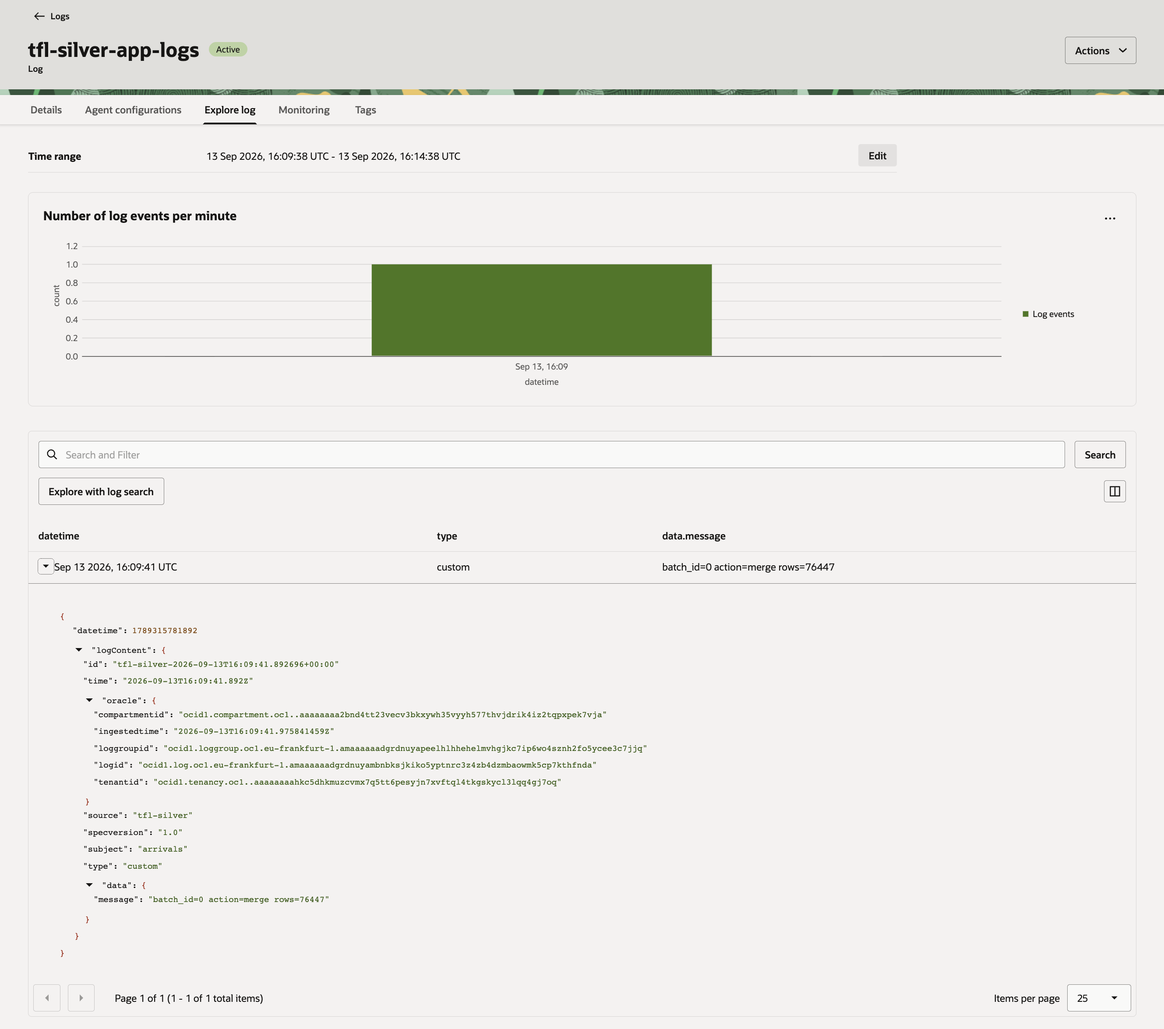
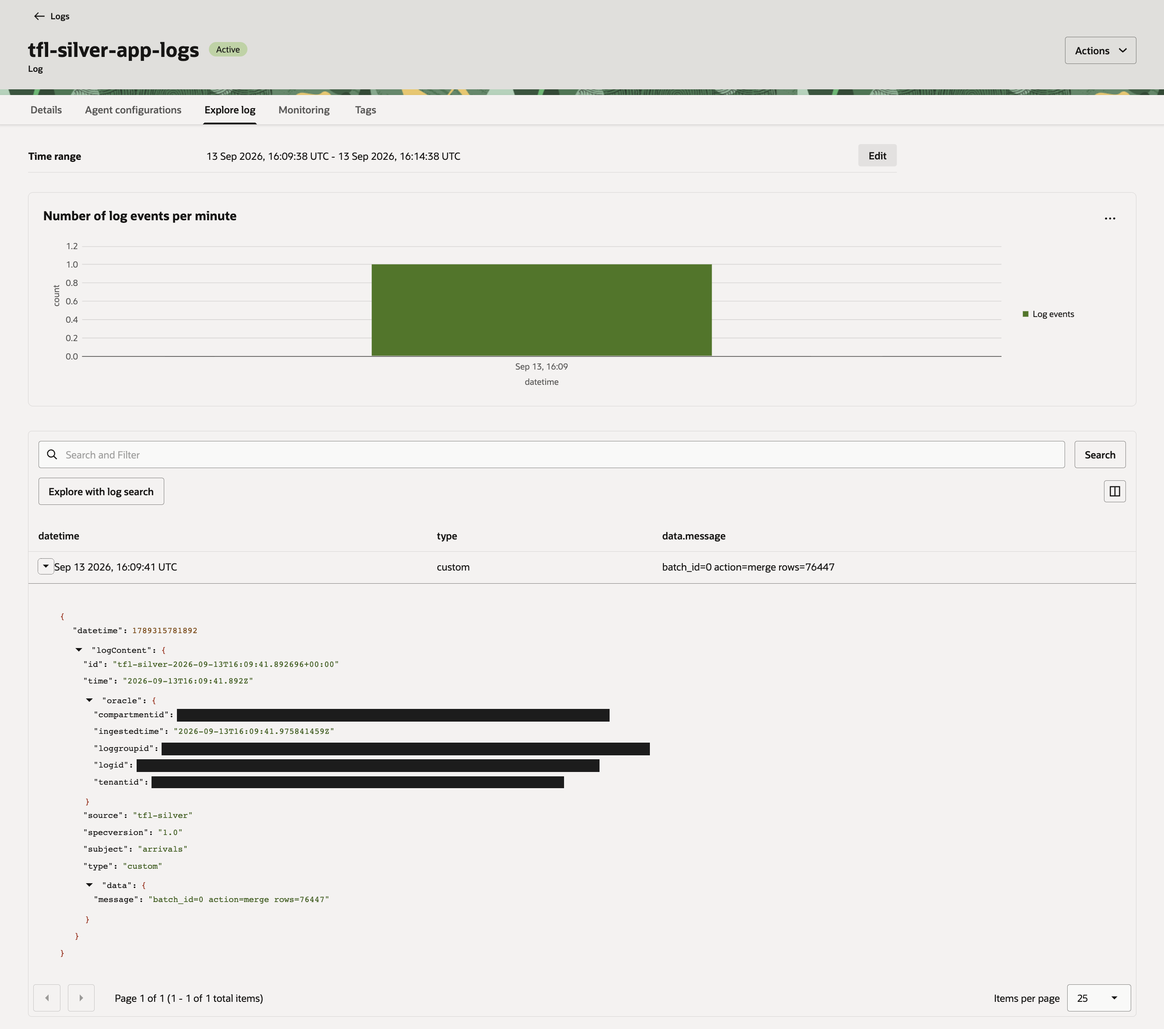
update

Changed region(s): [[0.1249, 0.6834, 0.5621, 0.7766]]

diff --git a/silver-layer-spark-structured-streaming/silver-layer-spark-structured-streaming.html b/silver-layer-spark-structured-streaming/silver-layer-spark-structured-streaming.html
@@ -11,26 +11,28 @@
   <p>In this post I'll walk through:</p>
 
   <ul>
-    <li><strong>Shaping the silver table</strong>: a 4-column business key, and two small judgment calls on which bronze fields carry forward.</li>
-    <li><strong>Cleaning and typing the bronze stream</strong>, then ranking each micro-batch down to one row per key.</li>
-    <li><strong>The <code>MERGE</code></strong>: why Delta needs <code>foreachBatch</code> for this, and how the upsert condition avoids clobbering fresher rows with stale ones.</li>
-    <li><strong>OCI Logging</strong>, added at the batch level, and the pragmatic call I made on how to authenticate it for a demo like this one.</li>
-    <li><strong>Running the pipeline against bronze's live backlog</strong>, and confirming the dedup actually held.</li>
+    <li><strong>Shaping the silver table</strong>: what makes one row unique, and which bronze fields I kept or left out, and why.</li>
+    <li><strong>Cleaning up the data</strong>: turning the many repeated updates TfL sends for the same bus into one clean row.</li>
+    <li><strong>Updating the table safely</strong>: why a normal streaming write can't update rows that are already there, the workaround I use, and how I stop old data from overwriting newer data.</li>
+    <li><strong>Watching it with logging</strong>: a simple way to see what the pipeline is doing while it runs, and how I got that working for a demo like this.</li>
+    <li><strong>Running it on real data</strong>: pointing the pipeline at everything bronze had already collected, and checking the cleanup actually worked.</li>
   </ul>
 
   <h2>Recap: what we have so far</h2>
 
   <p><code>tfl.bronze.arrivals_bronze</code> has been filling up since the last post: every message TfL's Unified API produces, landed as-is, one row per prediction, with a full-fidelity <code>raw_payload</code> column alongside the typed fields. Nothing in bronze is deduplicated or cleaned; the same vehicle approaching the same stop shows up over and over as TfL keeps refreshing its estimate.</p>
 
-  <p>That's exactly what a bronze layer is for. Silver is where it gets turned into something more usable: one row per <code>(vehicleId, naptanId, lineId, direction)</code>, always reflecting the latest prediction, kept current by an upsert rather than a plain append.</p>
+  <p>Think of bronze like a messy inbox: every update TfL sends gets saved, even the tenth reminder about the same bus approaching the same stop. That's fine for bronze, it's meant to be a complete, honest copy of everything that happened, nothing thrown away.</p>
+
+  <p>Silver is where I clean that inbox up. One row per <code>(vehicleId, naptanId, lineId, direction)</code>, in plain terms, one row per "this bus, at this stop, on this line, going this direction", always showing the latest prediction, kept current by updating existing rows instead of just piling on more of them.</p>
 
   <h2>Shaping the silver table</h2>
 
   <p>Like bronze, this stage needed no new core OCI resources: it reuses <code>tfl_cluster</code> and the <code>tfl</code> catalog's <code>silver</code> schema, both already in place from stage 0. Two small decisions shaped the table itself before writing any code.</p>
 
-  <p>The dedup key is a 4-column composite: <code>vehicleId</code>, <code>naptanId</code>, <code>lineId</code>, <code>direction</code>. A single vehicle can appear multiple times in the same batch if it's serving more than one line or has predictions queued for more than one upcoming stop, so all four columns together are what actually identifies "the current prediction for this vehicle, at this stop, on this line, in this direction."</p>
+  <p>First: how do I know two rows are "about the same thing"? I use four fields together: <code>vehicleId</code>, <code>naptanId</code>, <code>lineId</code>, <code>direction</code>. In plain words, that's "which bus, at which stop, on which line, going which direction." A single bus can show up more than once in the same chunk of data (it might serve more than one line, or have predictions queued for more than one upcoming stop), so I need all four fields together to be sure I'm looking at the same real prediction, and not two different ones that just happen to share a bus number.</p>
 
-  <p>The other decision was what to carry forward from bronze's two odder fields. <code>timeToLive</code>, the point after which a prediction should be considered stale, is already a clean <code>TIMESTAMP</code> in bronze, so it carries straight through since it's likely useful downstream. <code>timing</code>, TfL's internal diagnostic object with its own source/insert/read/sent/received sub-timestamps, gets dropped at this layer: it's upstream plumbing detail, not cleaned business data. Easy to add back later as a passthrough column if it turns out to matter.</p>
+  <p>Second: what do I keep from bronze's two odder fields? <code>timeToLive</code> says "this prediction goes stale after this point", it's already a clean timestamp in bronze, and it's genuinely useful downstream, so it carries straight through. <code>timing</code> is TfL's own internal bookkeeping (when their system read it, sent it, received it, and so on), nobody downstream actually needs it, so I drop it at this layer. Easy to bring back later if it turns out someone does need it.</p>
 
   <p>Same per-layer-resources approach as bronze: a dedicated checkpoint volume, <code>tfl.silver.tfl_volume</code>, rather than reusing one from another schema, and catalog-managed storage with no explicit <code>LOCATION</code>.</p>
 
@@ -91,7 +93,11 @@ TBLPROPERTIES (
 
   <h2>Reading bronze, cleaning, and de-duplicating</h2>
 
-  <p>Bronze's <code>timestamp</code>, <code>expectedArrival</code>, and <code>timeToLive</code> columns are already <code>TIMESTAMP</code>-typed there, since bronze casts them on the way in. So this step is mostly renaming and deriving, not re-parsing: <code>timestamp</code> becomes <code>event_ts</code>, bronze's own <code>ingest_ts</code> becomes <code>bronze_ingest_ts</code> to make room for silver's own fresh <code>ingest_ts</code>, and <code>event_date</code> gets derived for partitioning. The one real transform is <code>bearing</code>, which bronze stores as a raw string; a regex extracts the leading numeric part and casts it to <code>DOUBLE</code>.</p>
+  <p>Bronze's <code>timestamp</code>, <code>expectedArrival</code>, and <code>timeToLive</code> columns are already <code>TIMESTAMP</code>-typed there, since bronze casts them on the way in. So most of this step is just renaming and deriving new columns, not re-parsing anything: <code>timestamp</code> becomes <code>event_ts</code>, bronze's own <code>ingest_ts</code> becomes <code>bronze_ingest_ts</code> (making room for silver's own fresh <code>ingest_ts</code>), and <code>event_date</code> gets derived from <code>event_ts</code> for partitioning.</p>
+
+  <p>The one real fix here is <code>bearing</code>, the compass direction a bus is facing. Bronze stores it as plain text, like <code>"134.0"</code>, simply because that's how TfL happened to send it. Text isn't something you can sort or do maths on, so I pull out the numeric part with a regular expression and store it as an actual number.</p>
+
+  <p>I also drop any row that's missing one of the four key fields, or missing <code>event_ts</code>. Without those, I wouldn't even be able to tell what bus, stop, line and direction the row is about, so there's nothing useful left to keep.</p>
 
   <pre><code>from pyspark.sql.functions import col, regexp_extract, current_timestamp, to_date
 
@@ -135,9 +141,13 @@ silver_candidates = (
 
   <h2>The <code>foreachBatch</code> upsert</h2>
 
-  <p>Delta doesn't support a plain streaming <code>MERGE</code>, so a streaming upsert needs <code>foreachBatch</code>: a function that runs once per micro-batch and does an ordinary batch <code>MERGE</code> against whatever rows arrived in that batch. Within each micro-batch, <code>row_number()</code> ranks rows by <code>(vehicleId, naptanId, lineId, direction)</code>, ordered by <code>event_ts</code> and then <code>bronze_ingest_ts</code>, both descending. Only the top-ranked row per key survives; that's the "latest per key" logic. The survivors get published as a global temp view, since a <code>%sql</code>-style <code>MERGE</code> statement needs something it can reference by name, then merged into the silver table.</p>
+  <p>Here's the problem this section solves: normally, a Spark streaming job can only add new rows, it can't go back and update one that's already there. But updating existing rows is exactly what I need: if a newer prediction comes in for a bus/stop/line/direction I've already seen, I want to update that one row, not just pile another row on top of it.</p>
 
-  <p>The <code>WHEN MATCHED</code> condition is what keeps this safe against out-of-order batches: a row only overwrites the existing one if its <code>event_ts</code> is genuinely newer, or ties on <code>event_ts</code> and wins on <code>bronze_ingest_ts</code>. Without that, a late-arriving batch with an older prediction could otherwise stomp on a newer one already sitting in the table.</p>
+  <p>Delta's answer to this is <code>foreachBatch</code>. Instead of treating the stream as one continuous flow, Spark hands me small chunks of new data every few seconds, a "micro-batch", and for each chunk I get to run completely ordinary, one-off database commands, including the update-or-insert command called <code>MERGE</code> ("if this row already exists, update it; if not, add it as new").</p>
+
+  <p>One wrinkle: even a single small chunk can contain more than one update for the same bus/stop/line/direction. So before running the <code>MERGE</code>, I sort each chunk with <code>row_number()</code>, ranked by <code>(vehicleId, naptanId, lineId, direction)</code> and then by whichever is newest (<code>event_ts</code>, with <code>bronze_ingest_ts</code> as a tiebreaker), and keep only the top-ranked row per key. Everything else in that chunk gets thrown away before it ever reaches the table, that's the "latest per key" logic. Because a <code>MERGE</code> statement needs something it can reference by name, I publish these survivors as a temporary named view first, then run the actual <code>MERGE</code> against it.</p>
+
+  <p>There's one more safety net: what if an old, out-of-date update shows up a bit late, after a newer one has already been saved? Without a check, it would happily overwrite the newer, correct row with older data. The <code>WHEN MATCHED</code> condition below is that check: an update only goes through if it's genuinely newer than what's already in the table, or, in a tie, arrived later.</p>
 
   <pre><code>from pyspark.sql import Window
 from pyspark.sql.functions import row_number
@@ -194,11 +204,20 @@ def upsert_latest_per_key(batch_df, batch_id: int):
 
   <h2>OCI Logging, briefly</h2>
 
-  <p>Each <code>foreachBatch</code> call also writes a line to OCI Logging (<code>log_to_oci()</code>, called above): batch id, row count, or the error if the <code>MERGE</code> failed. AIDP's notebooks don't expose a resource-principal token or standard OCI instance-metadata access, so neither of the two "automatic identity" mechanisms OCI normally offers worked here, and the Credential Store's Service account credential type can't be created from a currently logged-in user's own identity either. For this demo, the pragmatic fix was my own OCI API signing key, uploaded once into the workspace's own file storage and referenced by path. It ties the pipeline's logging permission to my personal identity rather than a proper scoped service account, which would be the right call for anything beyond a demo like this one, but it's more setup than this feature needed here.</p>
+  <p>Every time this batch process runs, I want a simple trail I can check later: did it succeed, how many rows did it touch, did anything go wrong. That's all <code>log_to_oci()</code> does above, it writes one line per batch to OCI Logging with the batch id, the row count, or the error message if the <code>MERGE</code> failed.</p>
 
-  <h2>Running the stream, verifying, and stopping it</h2>
+  <p>Getting the pipeline permission to actually write those logs turned out more fiddly than expected. Normally a notebook running on OCI can quietly prove "I'm allowed to be here" without any extra setup, but AIDP's notebooks don't expose either of the two usual automatic ways to do that, and the platform's own Credential Store refused to create a proper separate service identity from my own logged-in account. For this demo, my workaround was simple: I uploaded my own OCI API signing key into the workspace's file storage and pointed the logging code at it directly. That ties the pipeline's logging permission to my personal account rather than a proper, separate service identity, which is the right way to do it for anything beyond a demo, but it was more setup than this one feature needed here.</p>
 
-  <p>Same manual, on-demand model as bronze: run the write cell when data should flow, stop it when done. The trigger interval is 5 seconds here rather than bronze's 2, since every micro-batch now also runs a <code>MERGE</code>, a heavier operation than a plain append.</p>
+  <p>Once the pipeline actually ran, this held up: the <code>batch_id=0 action=merge rows=76447</code> line showed up as a real structured entry in the Log Explorer, not just a local print.</p>
+
+  <figure>
+    <img alt="OCI Logging Log Explorer showing the tfl-silver-app-logs entry with message batch_id=0 action=merge rows=76447, plus full compartment/log group/tenant metadata" src="https://zigavaupot.github.io/blogger-ai-data-platform-series/silver-layer-spark-structured-streaming/images/silver-log-explorer.png">
+    <figcaption>The same batch's log line, landed in tfl-silver-app-logs with real OCI metadata attached.</figcaption>
+  </figure>
+
+  <h2>Running and stopping</h2>
+
+  <p>In short: I press play and the pipeline starts pulling data from bronze and updating the silver table every 5 seconds; when I'm done for the day, I press stop, the same two-step way as bronze. Same manual, on-demand model as before: run the write cell when data should flow, stop it when done. The trigger interval here is 5 seconds rather than bronze's 2, since every micro-batch now also runs a <code>MERGE</code>, which is heavier work than a plain append.</p>
 
   <pre><code>CHECKPOINT_PATH = "/Volumes/tfl/silver/tfl_volume/checkpoints/arrivals-silver"
 TRIGGER_SEC = 5
@@ -229,6 +248,8 @@ query.awaitTermination()</code></pre>
 
   <pre><code>print(query.isActive)  # expect: False</code></pre>
 
+  <h2>Running the query notebook alongside it</h2>
+
   <p>Verifying it worked meant two things. First, the ordinary checks:</p>
 
   <pre><code>%sql
@@ -246,7 +267,7 @@ LIMIT 20;</code></pre>
     <figcaption>76,447 rows landed from bronze's backlog in one batch, with a recent last_ingest timestamp.</figcaption>
   </figure>
 
-  <p>Second, and more specific to this layer: a dedup sanity check, run from the second observational notebook attached to the same cluster while the main job runs.</p>
+  <p>Second, and more specific to this layer: a dedup sanity check. I ran this from a second, separate notebook attached to the same cluster, not the one actually streaming. That's on purpose: the main notebook's write-stream cell is busy running and blocking, so nothing else can execute there until I stop it. Rather than interrupt the real pipeline just to peek at the data, I open a second notebook side by side and query the table from there while the first one keeps running.</p>
 
   <pre><code>%sql
 SELECT vehicleId, naptanId, lineId, direction, count(*) AS cnt
@@ -254,12 +275,7 @@ FROM tfl.silver.arrivals_silver
 GROUP BY vehicleId, naptanId, lineId, direction
 HAVING count(*) &gt; 1;</code></pre>
 
-  <p>That query came back empty, confirming the latest-per-key logic held: every key in the table has exactly one row. OCI Logging held up too; the <code>batch_id=0 action=merge rows=76447</code> line showed up as a real structured entry in the Log Explorer, not just a local print.</p>
-
-  <figure>
-    <img alt="OCI Logging Log Explorer showing the tfl-silver-app-logs entry with message batch_id=0 action=merge rows=76447, plus full compartment/log group/tenant metadata" src="https://zigavaupot.github.io/blogger-ai-data-platform-series/silver-layer-spark-structured-streaming/images/silver-log-explorer.png">
-    <figcaption>The same batch's log line, landed in tfl-silver-app-logs with real OCI metadata attached.</figcaption>
-  </figure>
+  <p>That query came back empty, confirming the latest-per-key logic held: every key in the table has exactly one row.</p>
 
   <h2>What's next</h2>
 

diff --git a/silver-layer-spark-structured-streaming/silver-layer-spark-structured-streaming.md b/silver-layer-spark-structured-streaming/silver-layer-spark-structured-streaming.md
@@ -6,25 +6,27 @@
 
 In this post I'll walk through:
 
-- **Shaping the silver table**: a 4-column business key, and two small judgment calls on which bronze fields carry forward.
-- **Cleaning and typing the bronze stream**, then ranking each micro-batch down to one row per key.
-- **The `MERGE`**: why Delta needs `foreachBatch` for this, and how the upsert condition avoids clobbering fresher rows with stale ones.
-- **OCI Logging**, added at the batch level, and the pragmatic call I made on how to authenticate it for a demo like this one.
-- **Running the pipeline against bronze's live backlog**, and confirming the dedup actually held.
+- **Shaping the silver table**: what makes one row unique, and which bronze fields I kept or left out, and why.
+- **Cleaning up the data**: turning the many repeated updates TfL sends for the same bus into one clean row.
+- **Updating the table safely**: why a normal streaming write can't update rows that are already there, the workaround I use, and how I stop old data from overwriting newer data.
+- **Watching it with logging**: a simple way to see what the pipeline is doing while it runs, and how I got that working for a demo like this.
+- **Running it on real data**: pointing the pipeline at everything bronze had already collected, and checking the cleanup actually worked.
 
 ## Recap: what we have so far
 
 `tfl.bronze.arrivals_bronze` has been filling up since the last post: every message TfL's Unified API produces, landed as-is, one row per prediction, with a full-fidelity `raw_payload` column alongside the typed fields. Nothing in bronze is deduplicated or cleaned; the same vehicle approaching the same stop shows up over and over as TfL keeps refreshing its estimate.
 
-That's exactly what a bronze layer is for. Silver is where it gets turned into something more usable: one row per `(vehicleId, naptanId, lineId, direction)`, always reflecting the latest prediction, kept current by an upsert rather than a plain append.
+Think of bronze like a messy inbox: every update TfL sends gets saved, even the tenth reminder about the same bus approaching the same stop. That's fine for bronze, it's meant to be a complete, honest copy of everything that happened, nothing thrown away.
+
+Silver is where I clean that inbox up. One row per `(vehicleId, naptanId, lineId, direction)`, in plain terms, one row per "this bus, at this stop, on this line, going this direction", always showing the latest prediction, kept current by updating existing rows instead of just piling on more of them.
 
 ## Shaping the silver table
 
 Like bronze, this stage needed no new core OCI resources: it reuses `tfl_cluster` and the `tfl` catalog's `silver` schema, both already in place from stage 0. Two small decisions shaped the table itself before writing any code.
 
-The dedup key is a 4-column composite: `vehicleId`, `naptanId`, `lineId`, `direction`. A single vehicle can appear multiple times in the same batch if it's serving more than one line or has predictions queued for more than one upcoming stop, so all four columns together are what actually identifies "the current prediction for this vehicle, at this stop, on this line, in this direction."
+First: how do I know two rows are "about the same thing"? I use four fields together: `vehicleId`, `naptanId`, `lineId`, `direction`. In plain words, that's "which bus, at which stop, on which line, going which direction." A single bus can show up more than once in the same chunk of data (it might serve more than one line, or have predictions queued for more than one upcoming stop), so I need all four fields together to be sure I'm looking at the same real prediction, and not two different ones that just happen to share a bus number.
 
-The other decision was what to carry forward from bronze's two odder fields. `timeToLive`, the point after which a prediction should be considered stale, is already a clean `TIMESTAMP` in bronze, so it carries straight through since it's likely useful downstream. `timing`, TfL's internal diagnostic object with its own source/insert/read/sent/received sub-timestamps, gets dropped at this layer: it's upstream plumbing detail, not cleaned business data. Easy to add back later as a passthrough column if it turns out to matter.
+Second: what do I keep from bronze's two odder fields? `timeToLive` says "this prediction goes stale after this point", it's already a clean timestamp in bronze, and it's genuinely useful downstream, so it carries straight through. `timing` is TfL's own internal bookkeeping (when their system read it, sent it, received it, and so on), nobody downstream actually needs it, so I drop it at this layer. Easy to bring back later if it turns out someone does need it.
 
 Same per-layer-resources approach as bronze: a dedicated checkpoint volume, `tfl.silver.tfl_volume`, rather than reusing one from another schema, and catalog-managed storage with no explicit `LOCATION`.
 
@@ -91,7 +93,11 @@ TBLPROPERTIES (
 
 ## Reading bronze, cleaning, and de-duplicating
 
-Bronze's `timestamp`, `expectedArrival`, and `timeToLive` columns are already `TIMESTAMP`-typed there, since bronze casts them on the way in. So this step is mostly renaming and deriving, not re-parsing: `timestamp` becomes `event_ts`, bronze's own `ingest_ts` becomes `bronze_ingest_ts` to make room for silver's own fresh `ingest_ts`, and `event_date` gets derived for partitioning. The one real transform is `bearing`, which bronze stores as a raw string; a regex extracts the leading numeric part and casts it to `DOUBLE`.
+Bronze's `timestamp`, `expectedArrival`, and `timeToLive` columns are already `TIMESTAMP`-typed there, since bronze casts them on the way in. So most of this step is just renaming and deriving new columns, not re-parsing anything: `timestamp` becomes `event_ts`, bronze's own `ingest_ts` becomes `bronze_ingest_ts` (making room for silver's own fresh `ingest_ts`), and `event_date` gets derived from `event_ts` for partitioning.
+
+The one real fix here is `bearing`, the compass direction a bus is facing. Bronze stores it as plain text, like `"134.0"`, simply because that's how TfL happened to send it. Text isn't something you can sort or do maths on, so I pull out the numeric part with a regular expression and store it as an actual number.
+
+I also drop any row that's missing one of the four key fields, or missing `event_ts`. Without those, I wouldn't even be able to tell what bus, stop, line and direction the row is about, so there's nothing useful left to keep.
 
 ```python
 from pyspark.sql.functions import col, regexp_extract, current_timestamp, to_date
@@ -137,9 +143,13 @@ silver_candidates = (
 
 ## The `foreachBatch` upsert
 
-Delta doesn't support a plain streaming `MERGE`, so a streaming upsert needs `foreachBatch`: a function that runs once per micro-batch and does an ordinary batch `MERGE` against whatever rows arrived in that batch. Within each micro-batch, `row_number()` ranks rows by `(vehicleId, naptanId, lineId, direction)`, ordered by `event_ts` and then `bronze_ingest_ts`, both descending. Only the top-ranked row per key survives; that's the "latest per key" logic. The survivors get published as a global temp view, since a `%sql`-style `MERGE` statement needs something it can reference by name, then merged into the silver table.
+Here's the problem this section solves: normally, a Spark streaming job can only add new rows, it can't go back and update one that's already there. But updating existing rows is exactly what I need: if a newer prediction comes in for a bus/stop/line/direction I've already seen, I want to update that one row, not just pile another row on top of it.
 
-The `WHEN MATCHED` condition is what keeps this safe against out-of-order batches: a row only overwrites the existing one if its `event_ts` is genuinely newer, or ties on `event_ts` and wins on `bronze_ingest_ts`. Without that, a late-arriving batch with an older prediction could otherwise stomp on a newer one already sitting in the table.
+Delta's answer to this is `foreachBatch`. Instead of treating the stream as one continuous flow, Spark hands me small chunks of new data every few seconds, a "micro-batch", and for each chunk I get to run completely ordinary, one-off database commands, including the update-or-insert command called `MERGE` ("if this row already exists, update it; if not, add it as new").
+
+One wrinkle: even a single small chunk can contain more than one update for the same bus/stop/line/direction. So before running the `MERGE`, I sort each chunk with `row_number()`, ranked by `(vehicleId, naptanId, lineId, direction)` and then by whichever is newest (`event_ts`, with `bronze_ingest_ts` as a tiebreaker), and keep only the top-ranked row per key. Everything else in that chunk gets thrown away before it ever reaches the table, that's the "latest per key" logic. Because a `MERGE` statement needs something it can reference by name, I publish these survivors as a temporary named view first, then run the actual `MERGE` against it.
+
+There's one more safety net: what if an old, out-of-date update shows up a bit late, after a newer one has already been saved? Without a check, it would happily overwrite the newer, correct row with older data. The `WHEN MATCHED` condition below is that check: an update only goes through if it's genuinely newer than what's already in the table, or, in a tie, arrived later.
 
 ```python
 from pyspark.sql import Window
@@ -198,11 +208,20 @@ def upsert_latest_per_key(batch_df, batch_id: int):
 
 ## OCI Logging, briefly
 
-Each `foreachBatch` call also writes a line to OCI Logging (`log_to_oci()`, called above): batch id, row count, or the error if the `MERGE` failed. AIDP's notebooks don't expose a resource-principal token or standard OCI instance-metadata access, so neither of the two "automatic identity" mechanisms OCI normally offers worked here, and the Credential Store's Service account credential type can't be created from a currently logged-in user's own identity either. For this demo, the pragmatic fix was my own OCI API signing key, uploaded once into the workspace's own file storage and referenced by path. It ties the pipeline's logging permission to my personal identity rather than a proper scoped service account, which would be the right call for anything beyond a demo like this one, but it's more setup than this feature needed here.
+Every time this batch process runs, I want a simple trail I can check later: did it succeed, how many rows did it touch, did anything go wrong. That's all `log_to_oci()` does above, it writes one line per batch to OCI Logging with the batch id, the row count, or the error message if the `MERGE` failed.
 
-## Running the stream, verifying, and stopping it
+Getting the pipeline permission to actually write those logs turned out more fiddly than expected. Normally a notebook running on OCI can quietly prove "I'm allowed to be here" without any extra setup, but AIDP's notebooks don't expose either of the two usual automatic ways to do that, and the platform's own Credential Store refused to create a proper separate service identity from my own logged-in account. For this demo, my workaround was simple: I uploaded my own OCI API signing key into the workspace's file storage and pointed the logging code at it directly. That ties the pipeline's logging permission to my personal account rather than a proper, separate service identity, which is the right way to do it for anything beyond a demo, but it was more setup than this one feature needed here.
 
-Same manual, on-demand model as bronze: run the write cell when data should flow, stop it when done. The trigger interval is 5 seconds here rather than bronze's 2, since every micro-batch now also runs a `MERGE`, a heavier operation than a plain append.
+Once the pipeline actually ran, this held up: the `batch_id=0 action=merge rows=76447` line showed up as a real structured entry in the Log Explorer, not just a local print.
+
+<figure>
+  <img src="https://zigavaupot.github.io/blogger-ai-data-platform-series/silver-layer-spark-structured-streaming/images/silver-log-explorer.png" alt="OCI Logging Log Explorer showing the tfl-silver-app-logs entry with message batch_id=0 action=merge rows=76447, plus full compartment/log group/tenant metadata">
+  <figcaption>The same batch's log line, landed in tfl-silver-app-logs with real OCI metadata attached.</figcaption>
+</figure>
+
+## Running and stopping
+
+In short: I press play and the pipeline starts pulling data from bronze and updating the silver table every 5 seconds; when I'm done for the day, I press stop, the same two-step way as bronze. Same manual, on-demand model as before: run the write cell when data should flow, stop it when done. The trigger interval here is 5 seconds rather than bronze's 2, since every micro-batch now also runs a `MERGE`, which is heavier work than a plain append.
 
 ```python
 CHECKPOINT_PATH = "/Volumes/tfl/silver/tfl_volume/checkpoints/arrivals-silver"
@@ -239,6 +258,8 @@ query.stop()
 print(query.isActive)  # expect: False
 ```
 
+## Running the query notebook alongside it
+
 Verifying it worked meant two things. First, the ordinary checks:
 
 ```sql
@@ -260,7 +281,7 @@ LIMIT 20;
   <figcaption>76,447 rows landed from bronze's backlog in one batch, with a recent last_ingest timestamp.</figcaption>
 </figure>
 
-Second, and more specific to this layer: a dedup sanity check, run from the second observational notebook attached to the same cluster while the main job runs.
+Second, and more specific to this layer: a dedup sanity check. I ran this from a second, separate notebook attached to the same cluster, not the one actually streaming. That's on purpose: the main notebook's write-stream cell is busy running and blocking, so nothing else can execute there until I stop it. Rather than interrupt the real pipeline just to peek at the data, I open a second notebook side by side and query the table from there while the first one keeps running.
 
 ```sql
 %sql
@@ -270,12 +291,7 @@ GROUP BY vehicleId, naptanId, lineId, direction
 HAVING count(*) > 1;
 ```
 
-That query came back empty, confirming the latest-per-key logic held: every key in the table has exactly one row. OCI Logging held up too; the `batch_id=0 action=merge rows=76447` line showed up as a real structured entry in the Log Explorer, not just a local print.
-
-<figure>
-  <img src="https://zigavaupot.github.io/blogger-ai-data-platform-series/silver-layer-spark-structured-streaming/images/silver-log-explorer.png" alt="OCI Logging Log Explorer showing the tfl-silver-app-logs entry with message batch_id=0 action=merge rows=76447, plus full compartment/log group/tenant metadata">
-  <figcaption>The same batch's log line, landed in tfl-silver-app-logs with real OCI metadata attached.</figcaption>
-</figure>
+That query came back empty, confirming the latest-per-key logic held: every key in the table has exactly one row.
 
 ## What's next
 
